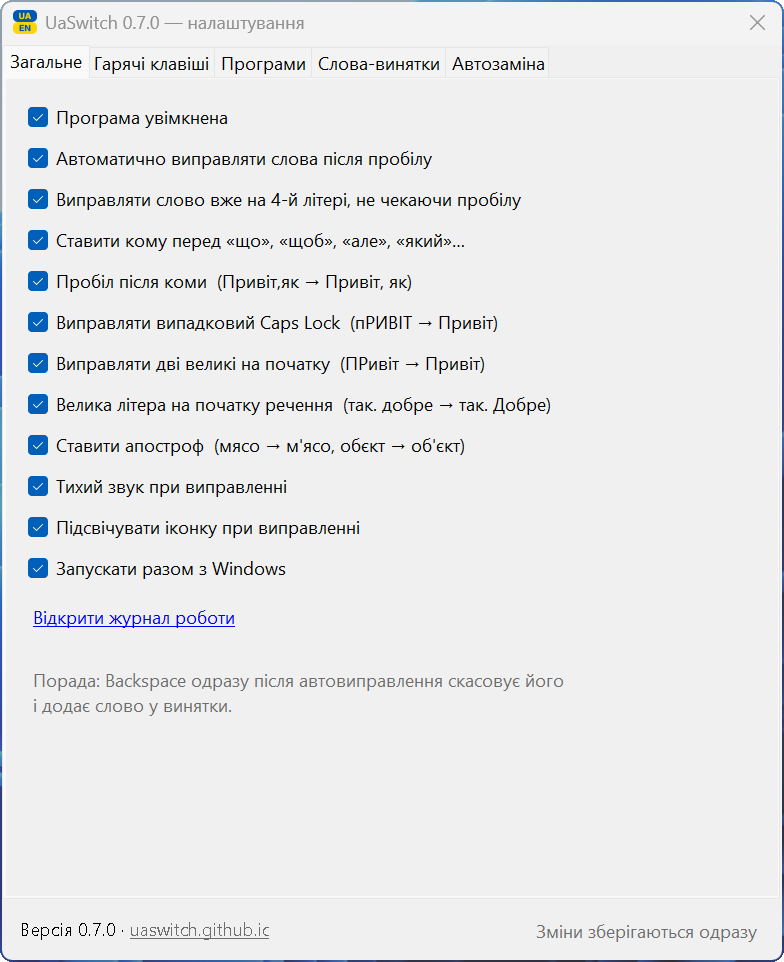
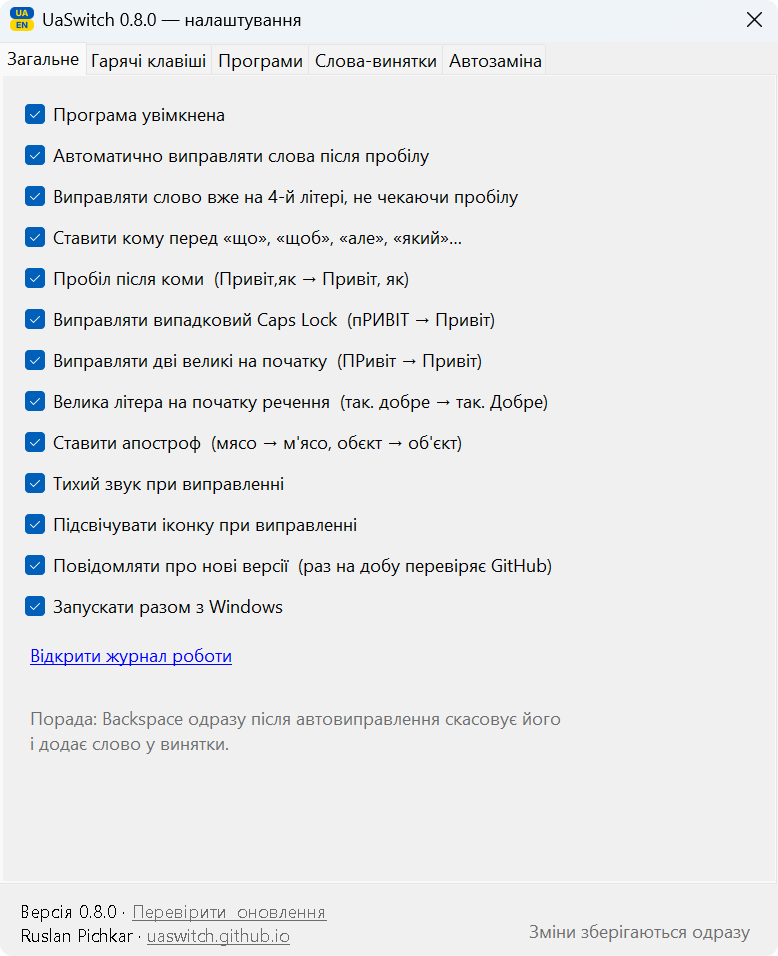
Скріншоти 0.8.0, меню іконки; виправлено висоту списків «Програми» і «Слова-винятки»
Claude-Session: https://claude.ai/code/session_013ogemVcSnfMfiHVGAB9s2P

diff --git a/docs/index.html b/docs/index.html
@@ -269,6 +269,7 @@ footer a{color:inherit}
           <button role="tab" aria-selected="false" data-img="screen-hotkeys.png" data-alt="Вкладка «Гарячі клавіші»">Гарячі клавіші</button>
           <button role="tab" aria-selected="false" data-img="screen-apps.png" data-alt="Вкладка «Програми»">Програми</button>
           <button role="tab" aria-selected="false" data-img="screen-replace.png" data-alt="Вкладка «Автозаміна»">Автозаміна</button>
+          <button role="tab" aria-selected="false" data-img="screen-menu.png" data-alt="Меню іконки">Меню іконки</button>
         </div>
         <img id="shot" class="shot" src="screen-general.png" alt="Вкладка «Загальне»" width="510" height="626" loading="lazy">
       </div>

diff --git a/src/SettingsForm.cs b/src/SettingsForm.cs
@@ -262,7 +262,7 @@ internal sealed class SettingsForm : Form
 
     private static void ListEditor(TabPage p, ListBox list, Control input, Func<string> value, Action changed)
     {
-        list.Size = new Size(420, 320);
+        list.Size = new Size(420, 220);
         list.SelectionMode = SelectionMode.MultiExtended;
         input.Width = 300;
         var add = new Button { Text = "Додати", Size = new Size(76, 30) };

diff --git a/README.md b/README.md
@@ -62,6 +62,8 @@ Klavko — сильний український проєкт для macOS з б
 4. В області сповіщень (біля годинника) з'явиться іконка `UA` або `EN`. У Windows 11 нові іконки ховаються під стрілкою `^`, тож її варто перетягнути на панель.
 5. У налаштуваннях увімкніть «Запускати разом з Windows».
 
+<p align="center"><img src="docs/screen-menu.png" alt="Меню іконки UaSwitch" width="300"></p>
+
 **Оновлення:** меню іконки або посилання внизу налаштувань → «Перевірити оновлення» покаже, чи є нова версія і що в ній нового. Можна ввімкнути автоматичну перевірку раз на добу — галочка «Повідомляти про нові версії» на вкладці «Загальне» (за замовчуванням вимкнена). Новий `UaSwitch.exe` можна покласти замість старого або в іншу папку — автозапуск сам переналаштується на файл, з якого програму запустили востаннє. Не запускайте програму прямо з архіву: Windows розпаковує її в тимчасову папку, яку потім видаляє.
 
 **Якщо не запускається разом з Windows:** перевірте, що у властивостях `UaSwitch.exe` (вкладка «Сумісність») не стоїть «Запускати від імені адміністратора» — такі програми Windows не запускає під час входу в систему. Права адміністратора програмі не потрібні.
